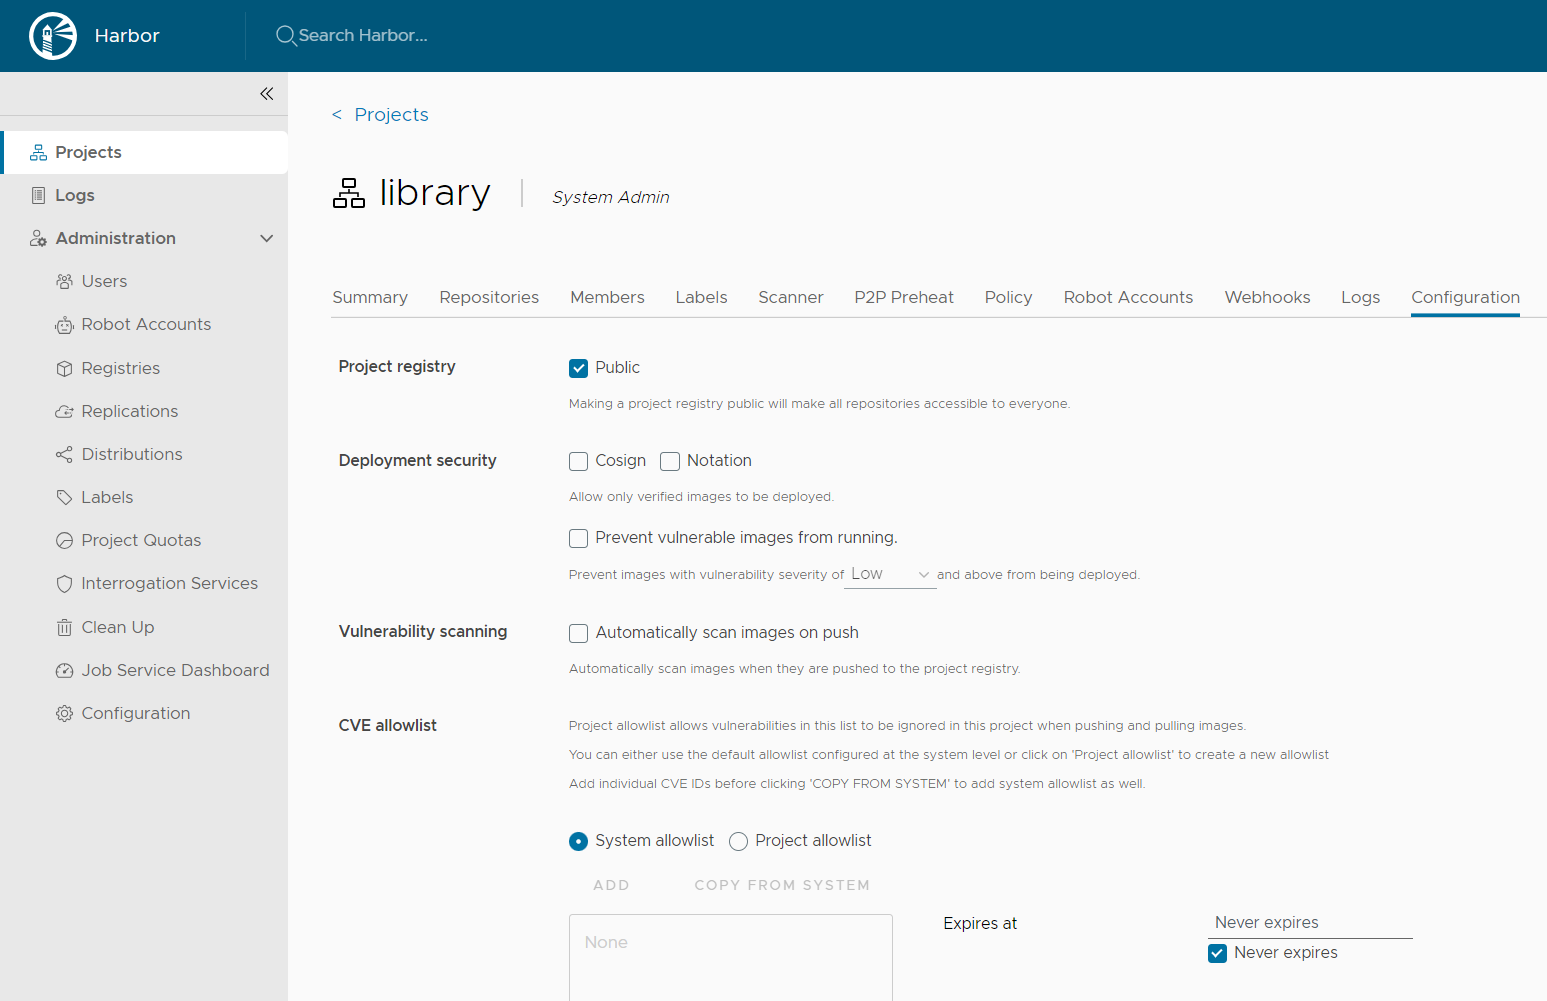
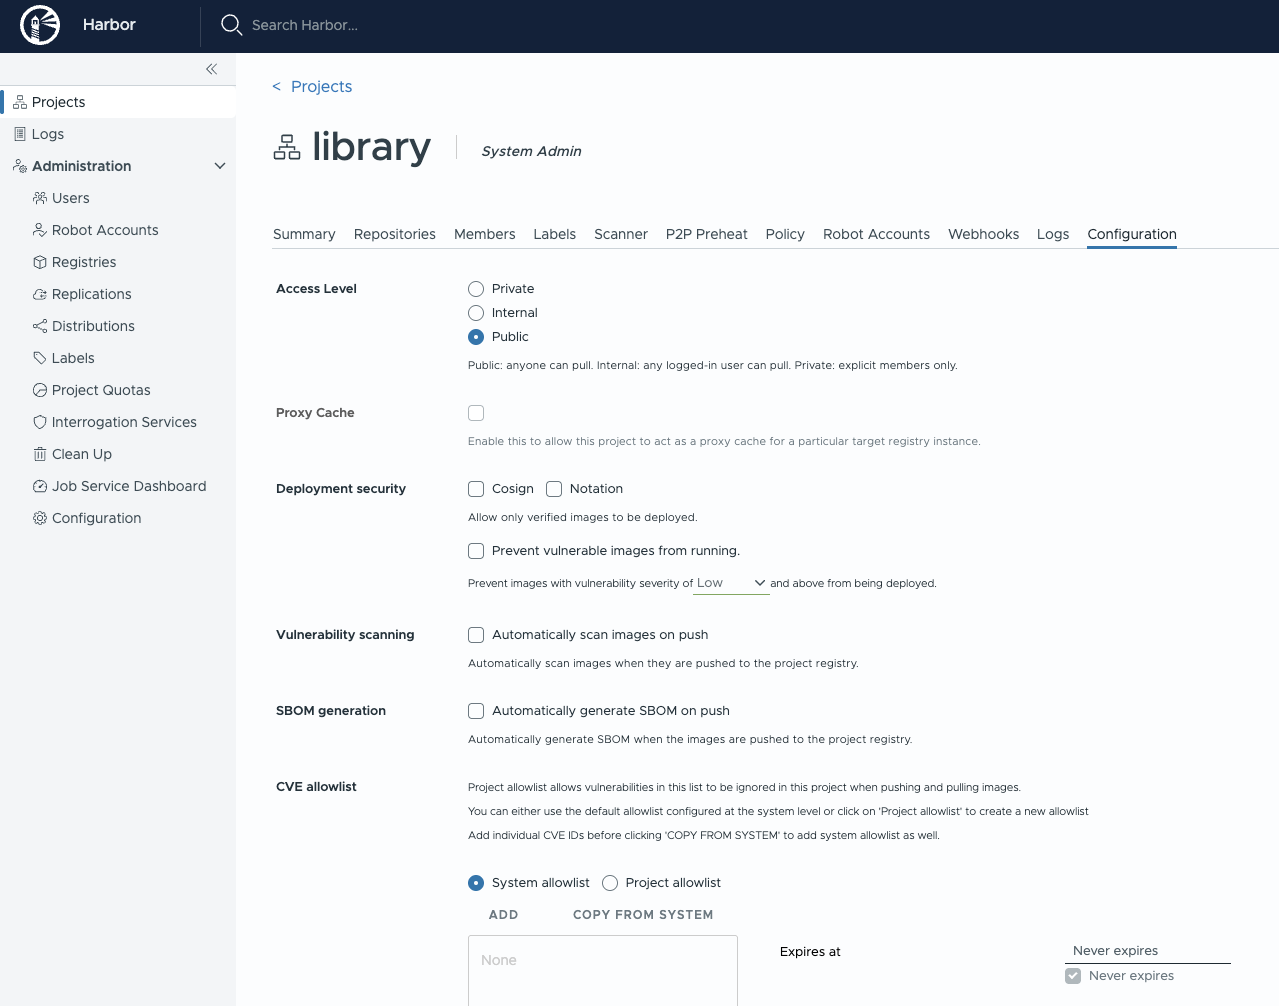
Document new Internal project access level

diff --git a/docs/working-with-projects/create-projects/_index.md b/docs/working-with-projects/create-projects/_index.md
@@ -5,10 +5,11 @@ weight: 20
 
 A project in Harbor contains all repositories of an application. Images cannot be pushed to Harbor before a project is created. Role-Based Access Control (RBAC) is applied to projects, so that only users with the appropriate roles can perform certain operations.
 
-There are two types of project in Harbor:
+There are three access levels for a project in Harbor:
 
-* **Public**: Any user can pull images from this project. This is a convenient way for you to share repositories with others.
-* **Private**: Only users who are members of the project can pull images
+* **Private**: Only users who are members of the project can pull images.
+* **Internal**: Any logged-in Harbor user can pull images from this project. Anonymous users who are not logged in are denied access, so users must run `docker login` before they can pull. This behaves like a public project but restricts access to authenticated users.
+* **Public**: Any user, including anonymous users who are not logged in, can pull images from this project. This is a convenient way for you to share repositories with others.
 
 {{< note >}}
 A Harbor system administrator can also create a proxy cache project. See more about how to [Configure a Proxy Cache](../../administration/configure-proxy-cache/) project.
@@ -24,9 +25,13 @@ Log in to Harbor with a Harbor administrator or project administrator account.
 
 1. Go to **Projects** and click **New Project**.
 1. Provide a name for the project.
-1. (Optional) Check the **Public** check box to make the project public.
+1. (Optional) Set the **Access Level** of the project by selecting one of the following options:
 
-    If you set the project to **Public**, any user can pull images from this project. If you leave the project set to **Private**, only users who are members of the project can pull images. You can toggle projects from public to private, or the reverse, at any moment after you create the project.
+    * **Private**: Only users who are members of the project can pull images.
+    * **Internal**: Any logged-in Harbor user can pull images from this project. Anonymous users are denied access, so users must run `docker login` before they can pull.
+    * **Public**: Any user, including anonymous users who are not logged in, can pull images from this project.
+
+    The access level defaults to **Private**. You can change the access level at any moment after you create the project.
 
     ![create project](../../img/new-create-project.png)
 
@@ -42,7 +47,7 @@ There are two views to show repositories, list view and card view, you can switc
 
 Project properties can be changed by clicking "Configuration".
 
-* To make all repositories under the project accessible to everyone, select the `Public` checkbox.
+* To control who can pull repositories under the project, set the **Access Level** to `Private`, `Internal`, or `Public`. Select `Public` to make all repositories accessible to everyone (including anonymous users), `Internal` to allow any logged-in Harbor user to pull, or `Private` to restrict access to project members.
 
 * To prevent un-signed images under the project from being pulled, select the `Prevent vulnerable images from running` checkbox. For more information about content trust, see [Implementing Content Trust](../project-configuration/implementing-content-trust.md).
 
@@ -50,7 +55,7 @@ Project properties can be changed by clicking "Configuration".
 
 
 ## Searching Projects, Repositories and Helm charts
-Entering a keyword in the search field at the top lists all matching projects, repositories and helm charts. The search result includes both public and private repositories you have access to.
+Entering a keyword in the search field at the top lists all matching projects, repositories and helm charts. The search result includes public, internal, and private repositories you have access to.
 
 ![browse project](../../img/new-search.png)
 

diff --git a/docs/working-with-projects/project-configuration/_index.md b/docs/working-with-projects/project-configuration/_index.md
@@ -8,14 +8,17 @@ After the initial creation of a project, you can configure or reconfigure its pr
 1. Log in to the Harbor interface with an account that has at least project administrator privileges.
 1. Go to **Projects** and select a project.
 1. Select the **Configuration** tab.
-1. To make all repositories under the project accessible to everyone, select the `Public` checkbox, or deselect this checkbox to make the project private.
+1. Set the **Access Level** of the project to one of the following options:
+   * **Private**: Only users who are members of the project can pull images.
+   * **Internal**: Any logged-in Harbor user can pull images from this project. Anonymous users are denied access, so users must run `docker login` before they can pull.
+   * **Public**: Any user, including anonymous users who are not logged in, can pull images from this project.
 1. To prevent un-signed images under the project from being pulled, select the `Prevent vulnerable images from running` checkbox.
 
 ![browse project](../../img/project-configuration.png)
 
 ## Searching projects and repositories
 
-Enter a keyword in the search field at the top to list all matching projects and repositories. The search result includes both public and private repositories you have access to.  
+Enter a keyword in the search field at the top to list all matching projects and repositories. The search result includes public, internal, and private repositories you have access to.  
 
 ![browse project](../../img/new-search.png)
 

diff --git a/docs/administration/managing-users/_index.md b/docs/administration/managing-users/_index.md
@@ -16,7 +16,7 @@ Harbor manages images through projects. You provide access to these images to us
 Besides the above roles, there are two system-level roles:
 
 * **Harbor system administrator**: "Harbor system administrator" has the most privileges. In addition to the privileges mentioned above, "Harbor system administrator" can also list all projects, set an ordinary user as administrator, delete users and set vulnerability scan policy for all images. The public project "library" is also owned by the administrator.
-* **Anonymous**: When a user is not logged in, the user is considered as an "Anonymous" user. An anonymous user has no access to private projects and has read-only access to public projects.
+* **Anonymous**: When a user is not logged in, the user is considered as an "Anonymous" user. An anonymous user has no access to private or internal projects and has read-only access to public projects. To pull from an internal project, the user must log in first.
 
 For full details of the permissions of the different roles, see [User Permissions By Role](user-permissions-by-role.md).
 

diff --git a/docs/administration/managing-users/user-permissions-by-role.md b/docs/administration/managing-users/user-permissions-by-role.md
@@ -7,6 +7,8 @@ Users have different abilities depending on the role they have in a project.
 
 On public projects all users will be able to see the list of repositories, images, image vulnerabilities, helm charts and helm chart versions, pull images, retag images (need push permission for destination image), download helm charts, download helm chart versions.
 
+On internal projects the same read-only access is granted, but only to logged-in Harbor users. Anonymous users who are not logged in are denied access and must run `docker login` before they can pull.
+
 System admin have all permissions for the project.
 
 ## Project members permissions

diff --git a/docs/working-with-projects/working-with-images/pulling-pushing-images.md b/docs/working-with-projects/working-with-images/pulling-pushing-images.md
@@ -19,7 +19,7 @@ Harbor only supports the Registry V2 API. You must use Docker client 1.6.0 or hi
 
 ## Pulling Images
 
-If the project that the image belongs to is private, you must sign in first:
+If the project that the image belongs to is private or internal, you must sign in first:
 
 ```sh
 docker login <harbor_address>